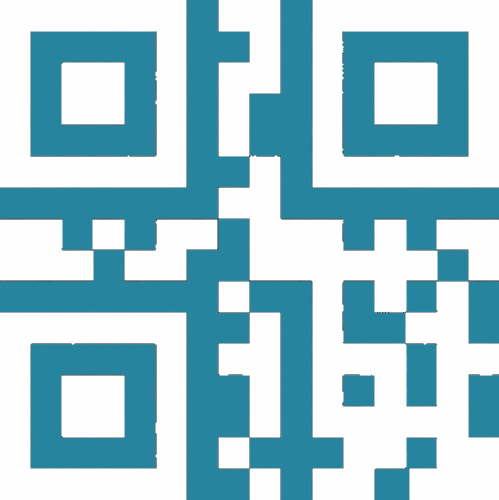
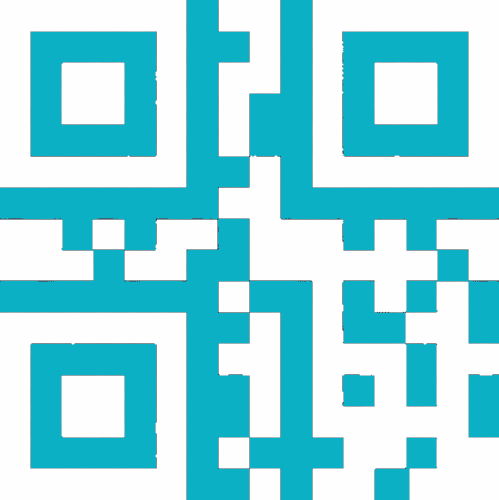
final

diff --git a/tummoc_main_style.css b/tummoc_main_style.css
@@ -28,7 +28,7 @@ body {
     top: 10px;
     font-size: 11px;
     color: #ffffff;
-    text-decoration: underline;
+    text-decoration: none;
   }
 
   .pass-container {
@@ -81,8 +81,8 @@ body {
   }
 
   .pass-header .pass-details .day {
-    background-color: #0087341f;
-    color: rgb(0, 123, 18);
+    background-color: #E8F1D7;
+    color: #64911A;
     font-weight: 500;
     margin-top: 0px;
   }
@@ -104,7 +104,7 @@ body {
 
   .pass-container .pass-id p {
     font-size: 11px;
-    margin-left: -5px;
+    margin-left: -2px;
   }
 
   .pass-number {
@@ -117,38 +117,28 @@ body {
     justify-content: center;
     align-items: center;
     margin: 10px;
+    margin-left: -10px;
   }
 
   .qr-container {
-    text-align: center;
+    width: 100%;
+    max-width: 310px;
   }
 
   .qr-container img {
     height: 20px;
-    margin-top: -2px;
-    display: block;
+    margin-right: 10px;
   }
 
-  .qr-section {
+  .validate-btn {
     display: flex;
-    justify-content: center;
     align-items: center;
-}
-
-.qr-container img {
-    display: block;
-    margin-right: 10px;
-    margin-left: 125px;
-}
-
-  .qr-container .validate-btn {
-    display: inline-flex;
+    justify-content: center;
     height: 25px;
-    width: 330px;
-    padding-top: 12px;
-    padding-bottom: -12px;
+    width: 100%;
+    padding: 8px 10px 5px 10px;
     color: rgb(255, 255, 255);
-    background-color: #26849f;
+    background-color: #0DBDC4;
     border-radius: 7px 7px 7px 7px;
     text-decoration: none;
     font-size: 11px;
@@ -156,14 +146,15 @@ body {
   .pass-container .how-to-validate {
     font-size: 13px;
     font-weight: 500;
-    margin-left: 52px;
+    display: flex;
+    justify-content: center;
+    align-items: center;
     text-decoration: none;
-    color: #26849f;
+    color: #0bb1b6;
   }
 
   .how-to-validate .info-logo {
     height: 20px;
-    margin-bottom: -5px;
     margin-right: 5px;
   }
 
@@ -294,32 +285,39 @@ body {
     margin-bottom: 5px;
   }
 
+  .generate-mail-btn {
+    display: flex;
+    justify-content: center;
+    align-items: center;
+  }
+
   .booking-details .validate-btn {
-    border: 1px #26849f;
+    border: 1px #0DBDC4;
     background-color: #ffffff;
-    color: hsl(193, 61%, 39%);
-    padding: 8px 1px;
+    color: #0DBDC4;
+    padding: 15px 1px;
     font-size: 11px;
     font-family: "Montserrat", Arial, sans-serif;
     font-weight: 500;
     border-radius: 5px;
     width: 170px;
     border-style: solid;
-    margin: 10px 20% 10px 85px;
+    margin: 10px 0px 10px 0px;
   }
 
   .validate-btn .mail-img {
     height: 15px;
-    margin-bottom: -3px;
-    margin-right: 3px;
+    margin-bottom: 1px;
+    margin-right: 4px;
   }
 
   .last-validated-bus-route {
     justify-content: space-between;
-    background-color: #88ff0028;
+    background-color: #E9F1D9;
     border-radius: 5px;
     padding: 5px 5px 15px 10px;
     margin-top: 10px;
+    margin-bottom: 10px;
   }
 
   .last-validated .group,
@@ -333,21 +331,88 @@ body {
   .validated-by .label {
     font-size: 10.5px;
     color: #333;
-    margin-bottom: -9px;
+    margin-bottom: -10px;
   }
 
   .last-validated .info,
   .bus-number .info,
   .validated-by .info {
-    margin-bottom: -4px;
-    font-size: 11.5px;
+    margin-bottom: -3px;
+    font-size: 12px;
     font-weight: 550;
     color: #555;
   }
 
-  .last-validated {
-    flex: 1.1;
+  .random-qr {
+    display: flex;
+    justify-content: center;
+    align-items: center;
+    margin: 10px;
+    margin-bottom: 2px;
   }
+
+  .random-qr img{
+    height: 140px;
+  }
+
+  .dropdown-container {
+    margin: 15px;
+  }
+
+  .dropdown {
+    width: 100%; /* Full width */
+}
+.dropbtn {
+    width: 100%; /* Full width */
+    background-color: #0DBDC4;
+    color: white;
+    padding: 14px 25px 14px 25px;
+    font-size: 12px;
+    font-weight: 400;
+    font-family: "Montserrat", Arial, sans-serif;
+    border: none;
+    cursor: pointer;
+    display: flex;
+    justify-content: space-between;
+    align-items: center;
+    border-radius: 8px;
+}
+.dropbtn:after {
+    content: ' \25BC'; /* Unicode for down arrow */
+    font-size: 13px;
+}
+.dropdown-content {
+    display: none;
+    position: absolute;
+    background-color: #f9f9f9;
+    width: 100%; /* Full width */
+    box-shadow: 0px 8px 16px 0px rgba(0,0,0,0.2);
+    z-index: 1;
+    text-align: left;
+}
+.dropdown-content p {
+    color: black;
+    padding: 12px 16px;
+    margin: 0;
+}
+.dropdown-content p:hover {
+    background-color: #f1f1f1;
+}
+.dropdown-content ul {
+  list-style-type: disc;
+  padding-left: 20px;
+}
+.dropdown-content ul li {
+  color: black;
+  padding: 8px 0;
+}
+.dropdown-content ul li::marker {
+  color: #0DBDC4; /* Set the bullet color to blue */
+}
+.show {
+    display: block;
+}
+
 
   /* QR Code Scanner */
   /* Modal Styles */

diff --git a/dropdown.html b/dropdown.html
@@ -1,0 +1,88 @@
+<!DOCTYPE html>
+<html lang="en">
+<head>
+    <meta charset="UTF-8">
+    <meta name="viewport" content="width=device-width, initial-scale=1.0">
+    <style>
+        .dropdown-container {
+            display: flex;
+            justify-content: center;
+            align-items: center;
+            height: 100vh;
+        }
+        .dropdown {
+            position: relative;
+            display: inline-block;
+        }
+        .dropbtn {
+            padding: 10px 20px;
+            font-size: 16px;
+            cursor: pointer;
+        }
+        .dropdown-content {
+            display: none;
+            position: absolute;
+            background-color: #f9f9f9;
+            min-width: 250px;
+            box-shadow: 0px 8px 16px 0px rgba(0,0,0,0.2);
+            z-index: 1;
+            padding: 10px;
+        }
+        .dropdown-content ul {
+            list-style-type: disc;
+            padding-left: 20px;
+        }
+        .dropdown-content ul li {
+            color: black;
+            padding: 8px 0;
+        }
+        .dropdown-content ul li::marker {
+            color: aqua; /* Set the bullet color to blue */
+        }
+        .show {
+            display: block;
+        }
+    </style>
+</head>
+<body>
+
+<div class="dropdown-container">
+    <div class="dropdown">
+        <button onclick="toggleDropdown()" class="dropbtn">Terms and Conditions</button>
+        <div id="myDropdown" class="dropdown-content">
+            <ul>
+                <li>Pass is valid for travel for the services it has been purchased and until the expiry date printed on the pass</li>
+                <li>In case the conductor asks for your ID proof, you can either show a physical/digital copy of the ID used at the time of booking.</li>
+                <li>Only one pass is allowed for one ID card</li>
+                <li>Pass holders must show their passes to conductors or any authorised person on demand</li>
+                <li>Improper/misuse of pass results in withdrawal of pass, attract penalty and pass holder will be liable to legal implications</li>
+                <li>BMTC is not responsible if passenger/pass holder's mobile application is not working or switched off</li>
+                <li>BMTC is not responsible if passenger/pass holder has entered wrong ID number in mobile pass purchased and the same cannot be accepted</li>
+                <li>Pass holders should abide by and accept the conditions on which the pass is issued</li>
+                <li>It is not required to carry BMTC ID card for pass holders who have purchased a digital pass</li>
+            </ul>
+        </div>
+    </div>
+</div>
+
+<script>
+    function toggleDropdown() {
+        document.getElementById("myDropdown").classList.toggle("show");
+    }
+
+    // Close the dropdown if the user clicks outside of it
+    window.onclick = function(event) {
+        if (!event.target.matches('.dropbtn')) {
+            var dropdowns = document.getElementsByClassName("dropdown-content");
+            for (var i = 0; i < dropdowns.length; i++) {
+                var openDropdown = dropdowns[i];
+                if (openDropdown.classList.contains('show')) {
+                    openDropdown.classList.remove('show');
+                }
+            }
+        }
+    }
+</script>
+
+</body>
+</html>

diff --git a/tummoc_main.html b/tummoc_main.html
@@ -88,7 +88,7 @@
             </div>
         </div>
         <div class="divider"></div>
-        <div>
+        <div class="generate-mail-btn">
             <button class="validate-btn">
                 <img  class="mail-img" src="/icons8-email-open-50.png" alt="Mail">
                 Generate mail receipt</button>
@@ -115,12 +115,27 @@
             </div>
         </div>
         <div class="divider"></div>
-
+        <div class="random-qr">
+            <img src="/qrcode.png" alt="QR"/>
+        </div>
     </div>
 </div>
 </div>
-<div class="booking-details-container">
-    <p>jgjjkk</p>
+<div class="dropdown-container">
+    <div class="dropdown">
+        <button onclick="toggleDropdown()" class="dropbtn">Term and Conditions</button>
+        <div id="myDropdown" class="dropdown-content">
+            <p>Pass is valid for travel for the services it has been purchased and until the expiry date printed on the pass</p>
+            <p>In case the conductor asks for your ID proof, you can either show a physical/digital copy of the ID used at the time of booking.</p>
+            <p>Only one pass is allowed for one ID card</p>
+            <p>Pass holders must show their passes to conductors or any authorised person on demand</p>
+            <p>Improper/misuse of past results in withdrawal of pass attract penalty and pass holder will be liable to legal implications</p>
+            <p>BMTC is not responsible if passenger/pass holder's mobile application is not working or switched off</p>
+            <p>BMTC is not responsible if passenger/pass holder has entered wrong ID number in mobile pass purchased and the same cannot be accepted</p>
+            <p>Pass holders should abide by and accept the conditions on which the pass is issued</p>
+            <p>It is not required to carry BMTC ID card for pass holders who have purchased a digital pass</p>
+        </div>
+    </div>
 </div>
 </body>
 </html>
